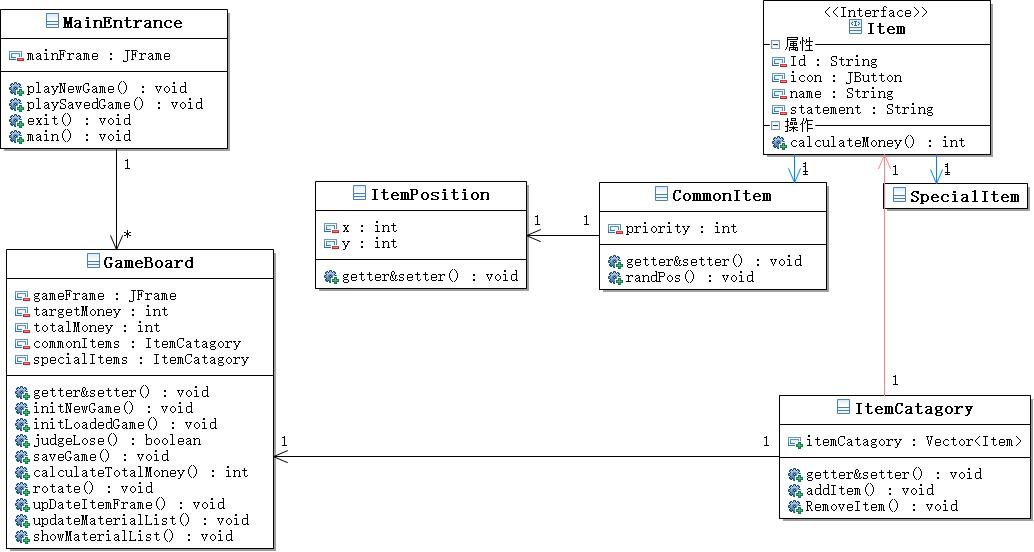
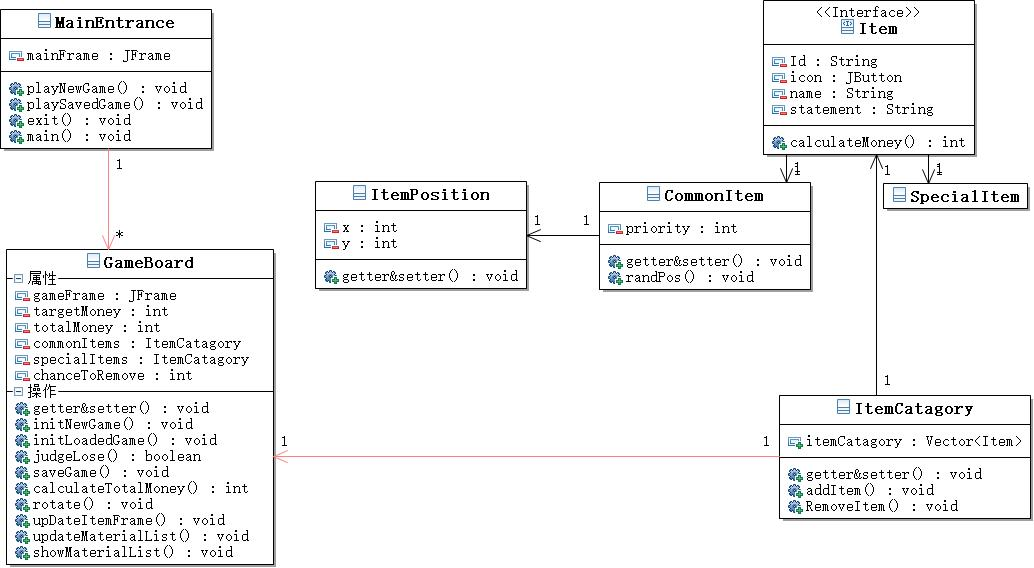
更新了GameBoard,增加了部分属性，见UML图更新

diff --git a/LuckyHostProject/src/com/game/GameBoard.java b/LuckyHostProject/src/com/game/GameBoard.java
@@ -33,6 +33,11 @@ public class GameBoard {
     private ItemCatagory commonItems;
 
     /**
+     * 剩余的移除次数
+     */
+    private int chancesToRemove;
+
+    /**
      * 特殊物品所在的列表
      */
     private ItemCatagory specialItems;
